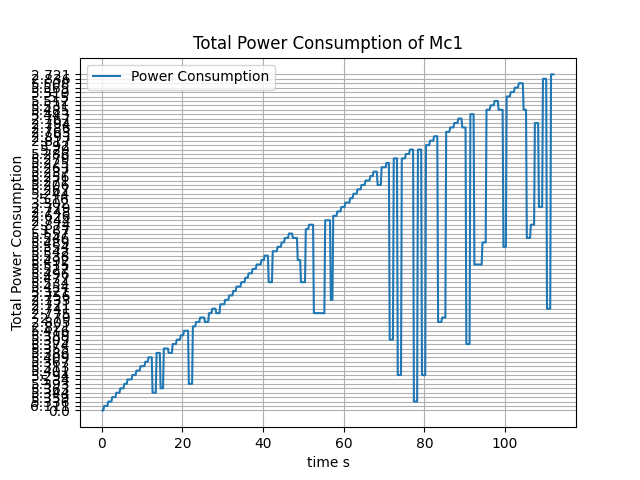
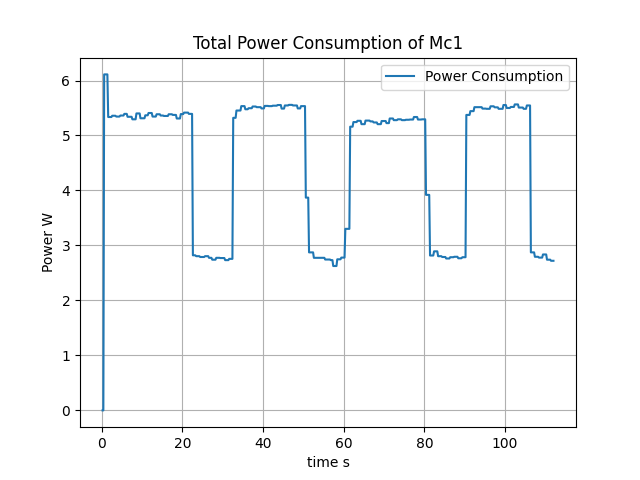
part 1 & report

Changed region(s): [[0.0, 0.125, 0.9062, 0.875]]

diff --git a/hw2_p3_mlp.py b/hw2_p3_mlp.py
@@ -1,43 +1,75 @@
 import pandas as pd
 from sklearn.neural_network import MLPClassifier
 from sklearn import metrics
-import numpy
 
 
 # Get Data
 train_df = pd.read_csv("./models_data/training_dataset.csv")
-print(train_df.head())
-
-test_df = pd.read_csv("./models_data/testing_blackscholes.csv")
-print(test_df.head())
+test_black_df = pd.read_csv("./models_data/testing_blackscholes.csv")
+test_body_df = pd.read_csv("./models_data/testing_bodytrack.csv")
 
 # Process data for training
 train_data = train_df.drop(columns=['w_big', 'total_watts', 
                            'w_little', 'w_gpu', 'w_mem'])
-y_train = pd.DataFrame(train_df['w_big'])
-y_train.loc[y_train['w_big'] < 1, 'w_big'] = 0
-y_train.loc[y_train['w_big'] > 1, 'w_big'] = 1
+train_data.drop(train_data.tail(1).index, inplace=True)
 
+temp4_train = pd.DataFrame(train_df['temp4'])[1:len(train_df)]
+temp5_train = pd.DataFrame(train_df['temp5'])[1:len(train_df)]
+temp6_train = pd.DataFrame(train_df['temp6'])[1:len(train_df)]
+temp7_train = pd.DataFrame(train_df['temp7'])[1:len(train_df)]
 
 # Process data for training
-test_data = test_df.drop(columns=['w_big', 'total_watts',
+test_data_blackshcoles = test_black_df.drop(columns=['w_big', 'total_watts',
                                   'w_little', 'w_gpu', 'w_mem'])
-y_test = pd.DataFrame(test_df['w_big'])
-y_test.loc[y_test['w_big'] < 1, 'w_big'] = 0
-y_test.loc[y_test['w_big'] > 1, 'w_big'] = 1
+test_data_blackshcoles.drop(test_data_blackshcoles.tail(1).index, inplace=True)
 
+temp4_black_test = pd.DataFrame(test_black_df['temp4'])[1:len(test_black_df)]
+temp5_black_test = pd.DataFrame(test_black_df['temp5'])[1:len(test_black_df)]
+temp6_black_test = pd.DataFrame(test_black_df['temp6'])[1:len(test_black_df)]
+temp7_black_test = pd.DataFrame(test_black_df['temp7'])[1:len(test_black_df)]
 
+# body track data
 
-print(numpy.unique(train_data['freq_big_cluster']))
-print(numpy.unique(test_data['freq_big_cluster']))
-print(train_data)
+test_data_bodytrack = test_body_df.drop(columns=['w_big', 'total_watts',
+                                                     'w_little', 'w_gpu', 'w_mem'])
+test_data_bodytrack.drop(test_data_bodytrack.tail(1).index, inplace=True)
+
+temp4_body_test = pd.DataFrame(test_body_df['temp4'])[1:len(test_body_df)]
+temp5_body_test = pd.DataFrame(test_body_df['temp5'])[1:len(test_body_df)]
+temp6_body_test = pd.DataFrame(test_body_df['temp6'])[1:len(test_body_df)]
+temp7_body_test = pd.DataFrame(test_body_df['temp7'])[1:len(test_body_df)]
 
 # Apply MLP model 
-mlp_model = MLPClassifier()
-mlp_model.fit(train_data, y_train)
-print(mlp_model)
-y_pred = mlp_model.predict(test_data)
+mlp_model_4 = MLPClassifier()
+mlp_model_4.fit(train_data, temp4_train)
+temp4_black_pred = mlp_model_4.predict(test_data_blackshcoles)
+temp4_body_pred = mlp_model_4.predict(test_data_bodytrack)
+
+# temp5
+mlp_model_5 = MLPClassifier()
+mlp_model_5.fit(train_data, temp5_train)
+temp5_black_pred = mlp_model_5.predict(test_data_blackshcoles)
+temp5_body_pred = mlp_model_5.predict(test_data_bodytrack)
+
+# temp6
+mlp_model_6 = MLPClassifier()
+mlp_model_6.fit(train_data, temp6_train)
+temp6_black_pred = mlp_model_6.predict(test_data_blackshcoles)
+temp6_body_pred = mlp_model_6.predict(test_data_bodytrack)
+
+# temp7
+mlp_model_7 = MLPClassifier()
+mlp_model_7.fit(train_data, temp7_train)
+temp7_black_pred = mlp_model_7.predict(test_data_blackshcoles)
+temp7_body_pred = mlp_model_7.predict(test_data_bodytrack)
 
 ## Metric evaluation
-print(metrics.classification_report(y_test, y_pred))
-print(metrics.confusion_matrix(y_test, y_pred))
+print(metrics.accuracy_score(temp4_black_test, temp4_black_pred))
+print(metrics.accuracy_score(temp5_black_test, temp5_black_pred))
+print(metrics.accuracy_score(temp6_black_test, temp6_black_pred))
+print(metrics.accuracy_score(temp7_black_test, temp7_black_pred))
+print(metrics.accuracy_score(temp4_body_test, temp4_body_pred))
+print(metrics.accuracy_score(temp5_body_test, temp5_body_pred))
+print(metrics.accuracy_score(temp6_body_test, temp6_body_pred))
+print(metrics.accuracy_score(temp7_body_test, temp7_body_pred))
+

diff --git a/hw2_p1_q3_blackscholes.py b/hw2_p1_q3_blackscholes.py
@@ -26,16 +26,16 @@ with open(plot_path + 'blackscholes_log.txt') as csv_file:
 df_blackscholes = pandas.DataFrame(data_blackscholes,columns = index)
 print(df_blackscholes)
 freq = 0.2
-time_bodytrack = numpy.linspace(freq,freq*len(df_blackscholes),num=len(df_blackscholes))
+time_blackscholes = numpy.linspace(freq,freq*len(df_blackscholes),num=len(df_blackscholes))
 
 #path for plots
 plot_path = "./plots/question1/"
 
 ## Power Consumption Plot
-plt.figure("W")
-plt.plot(time_bodytrack,df_blackscholes["W"], label='Power Consumption')
+plt.figure("W_black")
+plt.plot(time_blackscholes,df_blackscholes["W"].astype(float), label='Power Consumption')
 plt.xlabel('time s')
-plt.ylabel('Total Power Consumption')
+plt.ylabel('Power W')
 plt.legend()
 plt.grid(True)
 plt.title('Total Power Consumption of Mc1')
@@ -45,8 +45,8 @@ plt.savefig(plot_path + 'power_hw2_q3_blackscholes.png')
 ## Max temperature
 df_temp = df_blackscholes[['temp4', 'temp5', 'temp6', 'temp7']]
 print(df_temp.max())
-plt.figure("T")
-plt.plot(time_bodytrack, df_blackscholes['temp6'], label='Core max temperature')
+plt.figure("T_black")
+plt.plot(time_blackscholes, df_blackscholes['temp6'].astype(float), label='Core max temperature')
 plt.xlabel('time s')
 plt.ylabel('Temp ºC')
 plt.legend()

diff --git a/hw2_p1_q3_bodytrack.py b/hw2_p1_q3_bodytrack.py
@@ -32,10 +32,10 @@ time_bodytrack = numpy.linspace(freq,freq*len(df_bodytrack),num=len(df_bodytrack
 plot_path = "./plots/question1/"
 
 ## Power Consumption Plot
-plt.figure("W")
-plt.plot(time_bodytrack,df_bodytrack["W"], label='Power Consumption')
+plt.figure("W_body")
+plt.plot(time_bodytrack,df_bodytrack["W"].astype(float), label='Power Consumption')
 plt.xlabel('time s')
-plt.ylabel('Total Power Consumption')
+plt.ylabel('Power W')
 plt.legend()
 plt.grid(True)
 plt.title('Total Power Consumption of Mc1')
@@ -45,9 +45,9 @@ plt.savefig(plot_path + 'power_hw2_q3_bodytrack.png')
 ## Max temperature
 df_temp = df_bodytrack[['temp4', 'temp5', 'temp6', 'temp7']]
 print(df_temp.max())
-plt.figure("T")
+plt.figure("T_body")
 plt.plot(time_bodytrack,
-    df_bodytrack['temp6'], label='Core max temperature')
+    df_bodytrack['temp6'].astype(float), label='Core max temperature')
 plt.xlabel('time s')
 plt.ylabel('Temp ºC')
 plt.legend()

diff --git a/hw2_p1_q1.py b/hw2_p1_q1.py
@@ -32,10 +32,10 @@ time = numpy.linspace(freq,freq*len(df),num=len(df))
 plot_path = "./plots/question1/"
 
 ## Power Consumption Plot
-plt.figure("W")
-plt.plot(time,df["W"], label='Power Consumption')
+plt.figure("W_bench")
+plt.plot(time,df["W"].astype(float), label='Power Consumption')
 plt.xlabel('time s')
-plt.ylabel('Total Power Consumption')
+plt.ylabel('Power W')
 plt.legend()
 plt.grid(True)
 plt.title('Total Power Consumption of Mc1')
